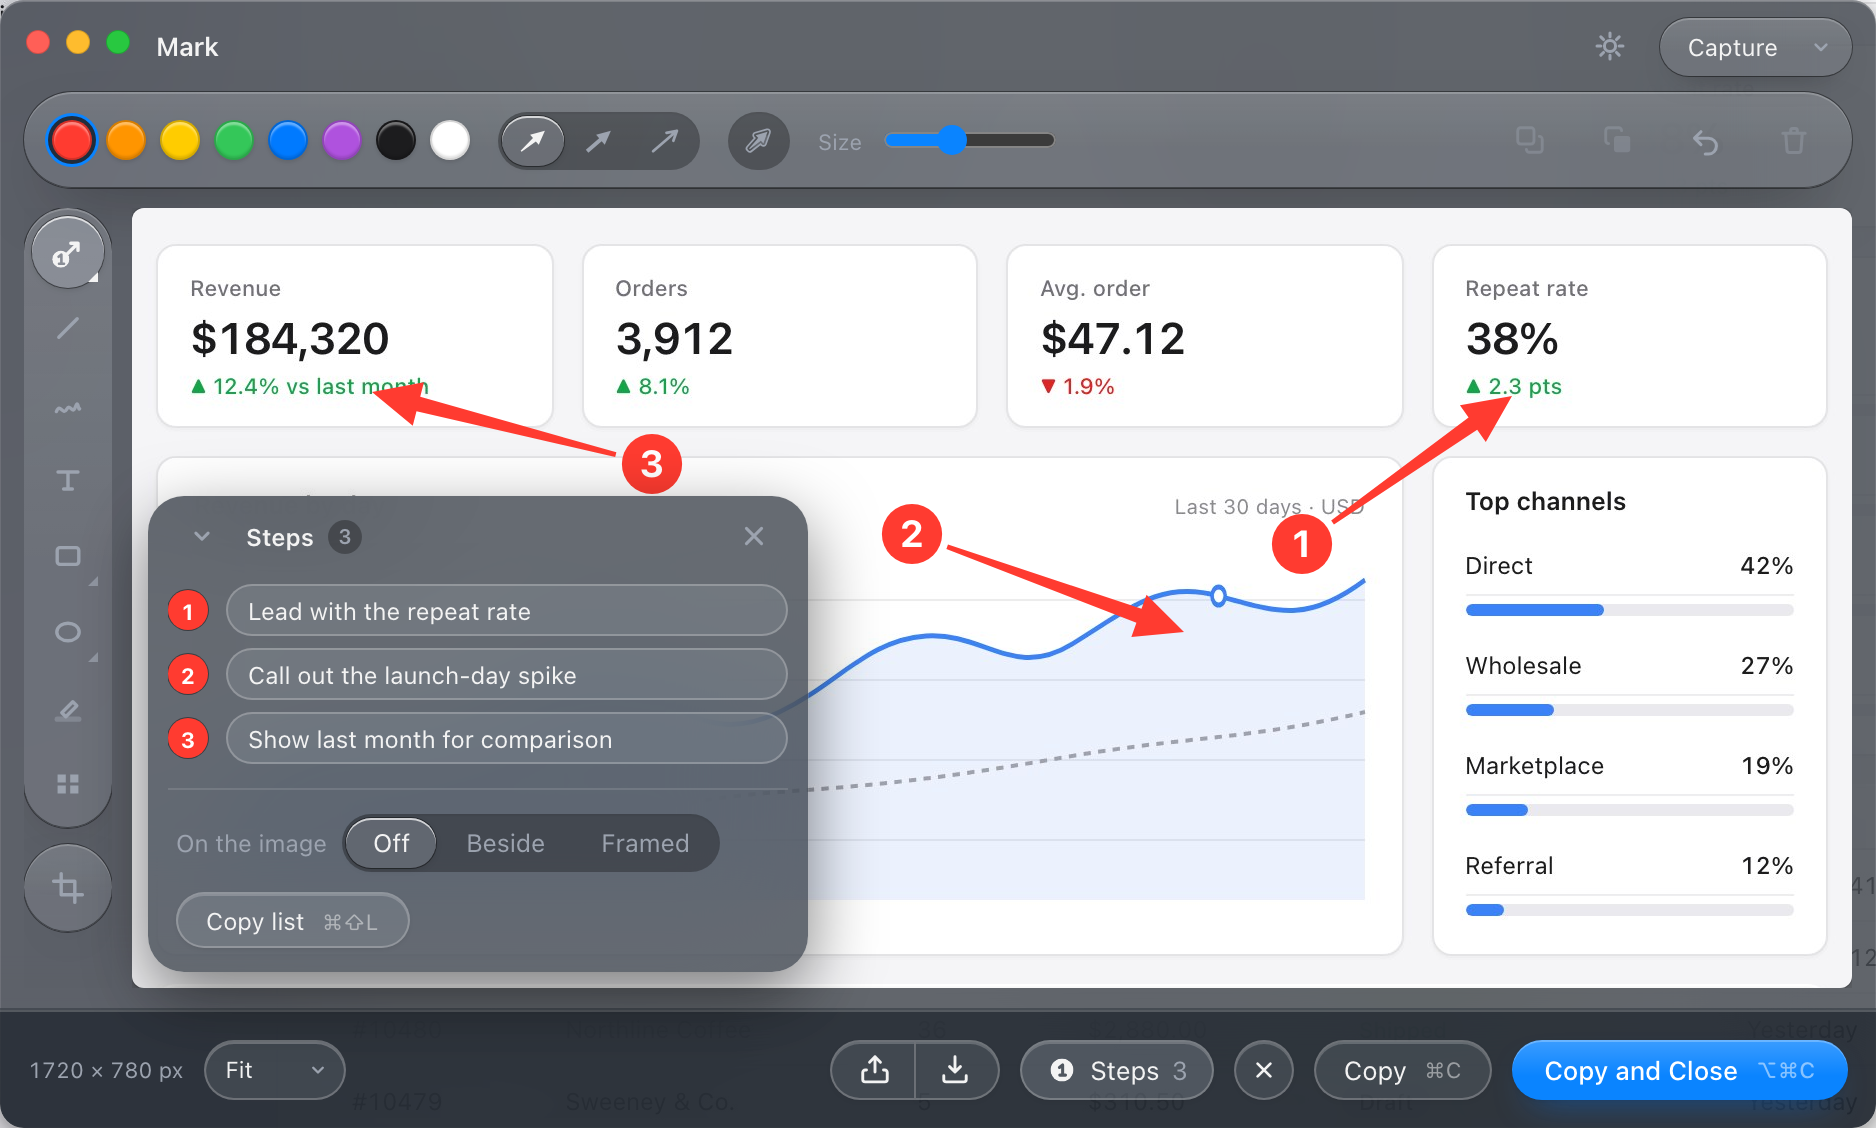
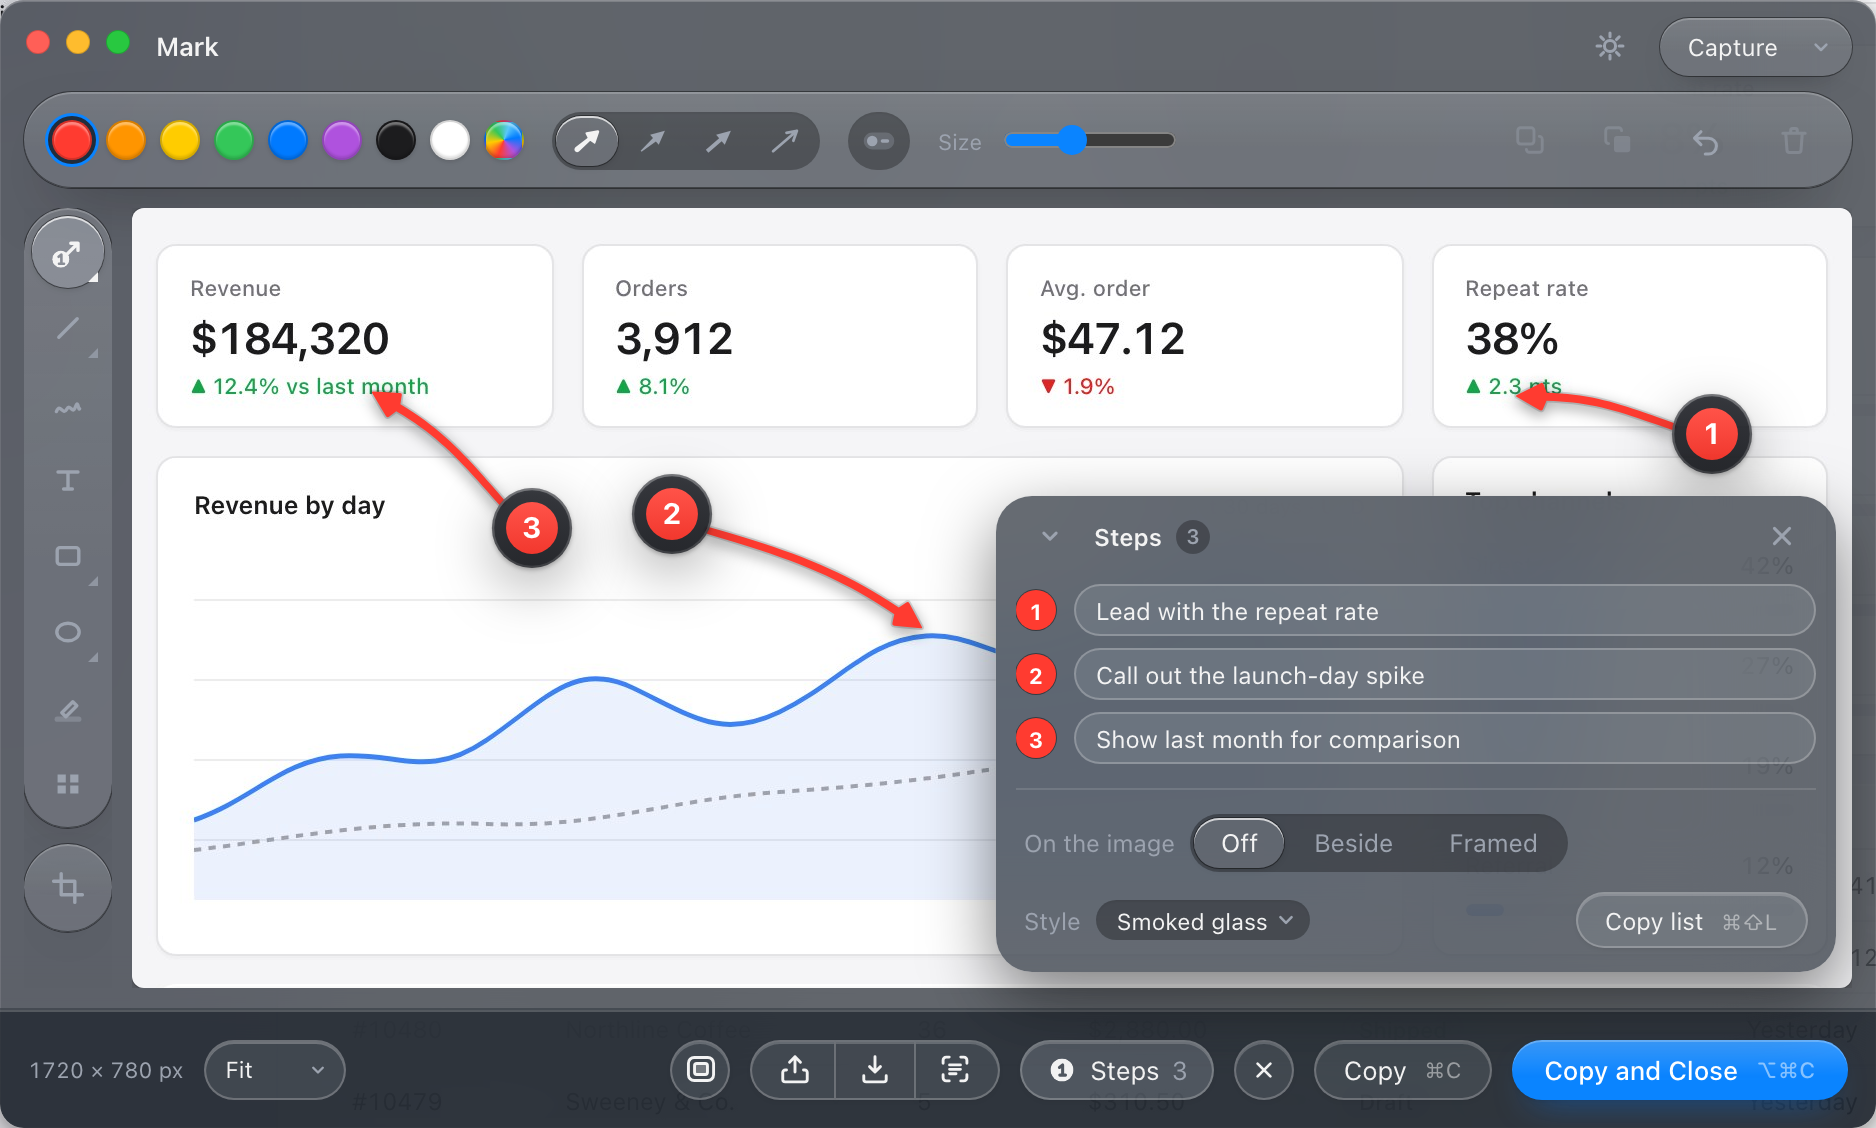
The site and README show the note styles
Every picture is redrawn with Mark's curved arrow and Smoked glass notes, and the
checkout's notes move to fit the taller pills. The arrow card draws the curved
arrow and names the Style menu.

diff --git a/src/site/page.ts b/src/site/page.ts
@@ -5,7 +5,8 @@
 import './page.css';
 import pkg from '../../package.json';
 import markIcon from '../mark-icon.png';
-import { arrowPolygon, arrowStrokes, arrowStrokeWidth, polygonPath, strokePath, type Arrow, type ArrowStyle } from '../annotations';
+import { arrowPolygon, arrowStrokes, arrowStrokeWidth, polygonPath, strokePath, styledArrow, type Arrow, type ArrowStyle } from '../annotations';
+import { DEFAULT_NOTE_STYLE } from '../note-style';
 import { CLICKS, POINTERS } from '../look';
 import { DEFAULT_SHORTCUT, prettyShortcut } from '../shortcut';
 
@@ -104,7 +105,7 @@ for (const slot of all('[data-arrows]')) {
     const arrow: Arrow = { kind: 'arrow', id: i, style, x1: 20, y1: 94, x2: 84, y2: 22, color: '', weight: 10 };
     const art = style === 'line'
       ? `<path d="${strokePath(arrowStrokes(arrow))}" fill="none" stroke="currentColor" stroke-width="${arrowStrokeWidth(arrow.weight)}" stroke-linecap="round" stroke-linejoin="round"/>`
-      : `<path d="${polygonPath(arrowPolygon(arrow))}" fill="currentColor"/>`;
+      : `<path d="${polygonPath(style === 'mark' ? styledArrow({ ...arrow, weight: 15 }, DEFAULT_NOTE_STYLE)!.polygon : arrowPolygon(arrow))}" fill="currentColor"/>`;
     return `<figure><svg viewBox="0 0 104 110" aria-label="${name} arrow">${art}</svg><figcaption>${name}</figcaption></figure>`;
   }).join('');
 }

diff --git a/site.html b/site.html
@@ -380,7 +380,7 @@
           <article class="card">
             <div class="visual arrows" data-arrows></div>
             <h3>Arrows worth pointing with</h3>
-            <p>The one from Mark’s icon, tapered, solid or thin, and the tip lands exactly where you let go.</p>
+            <p>The one from Mark’s icon, tapered, solid or thin, and the tip lands exactly where you let go. A Style menu dresses your notes and Mark’s arrow four ways.</p>
           </article>
           <article class="card">
             <div class="visual pointers" data-pointers></div>

diff --git a/README.md b/README.md
@@ -18,7 +18,7 @@ writes each note beside its number, or frames the two together in one pill. A
 **Style** menu dresses the notes and Mark's own arrow together, in **Smoked
 glass**, **Soft solid**, **Card** or **Icon glass**.
 
-![Three notes framed with their numbers in red pills, each with a white border and a soft shadow, pointing at a dashboard](docs/framed-steps.png)
+![Three notes framed with their numbers in dark, slightly see-through pills, each with a curved arrow pointing at a dashboard](docs/framed-steps.png)
 
 **Or let an AI ask.** Claude Code and Claude Desktop can ask Mark for a
 screenshot: Mark shows you what they want to see, you capture it and mark it up
